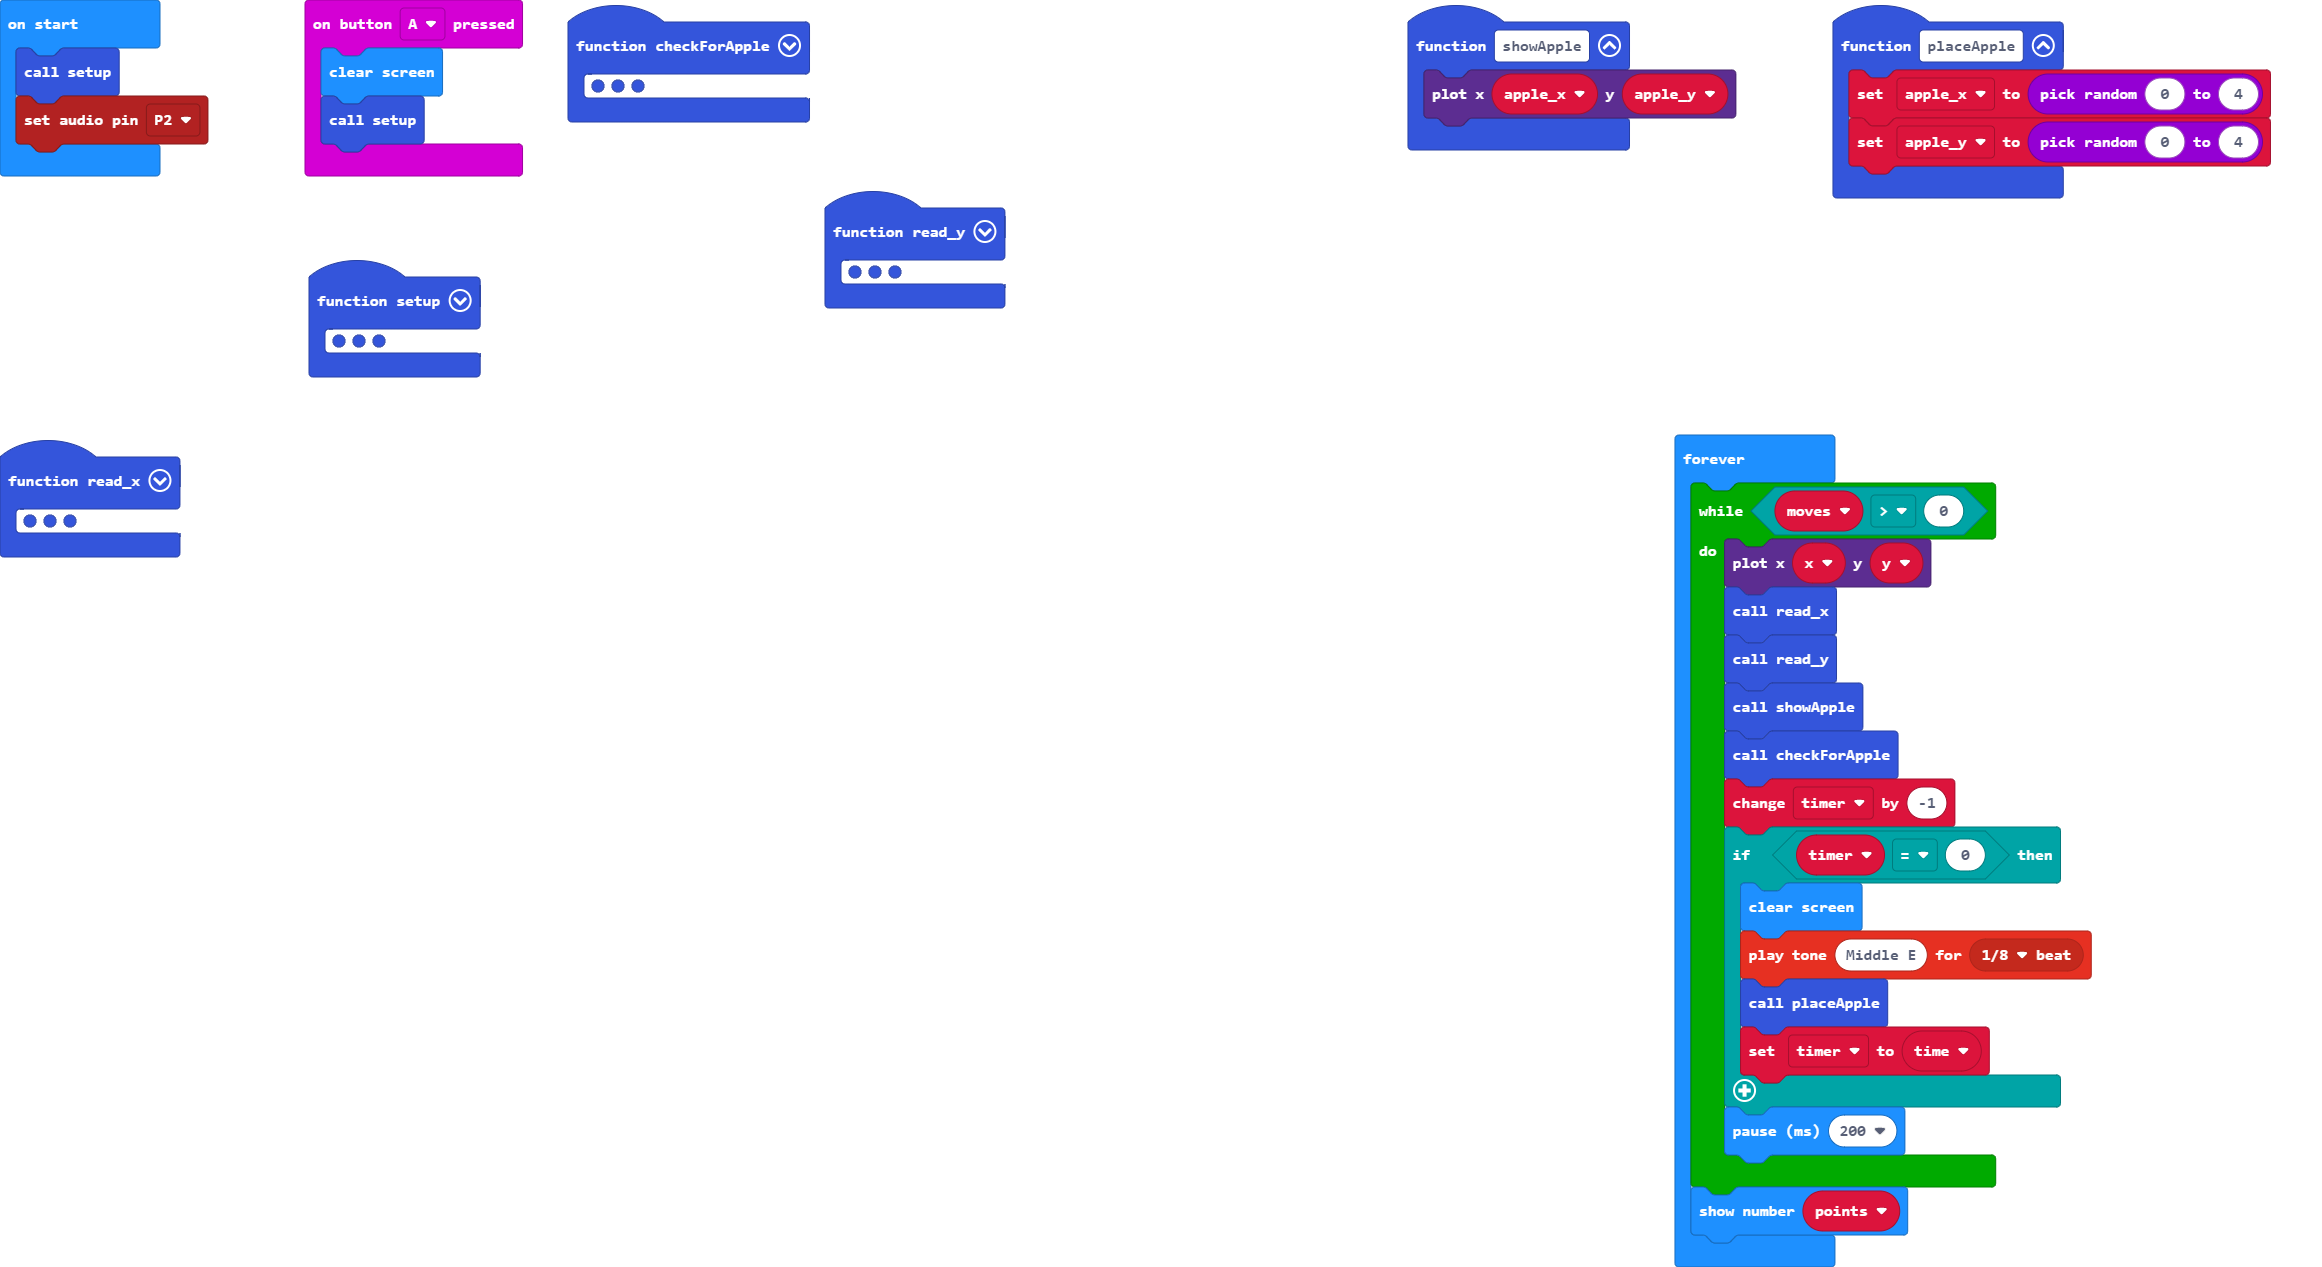
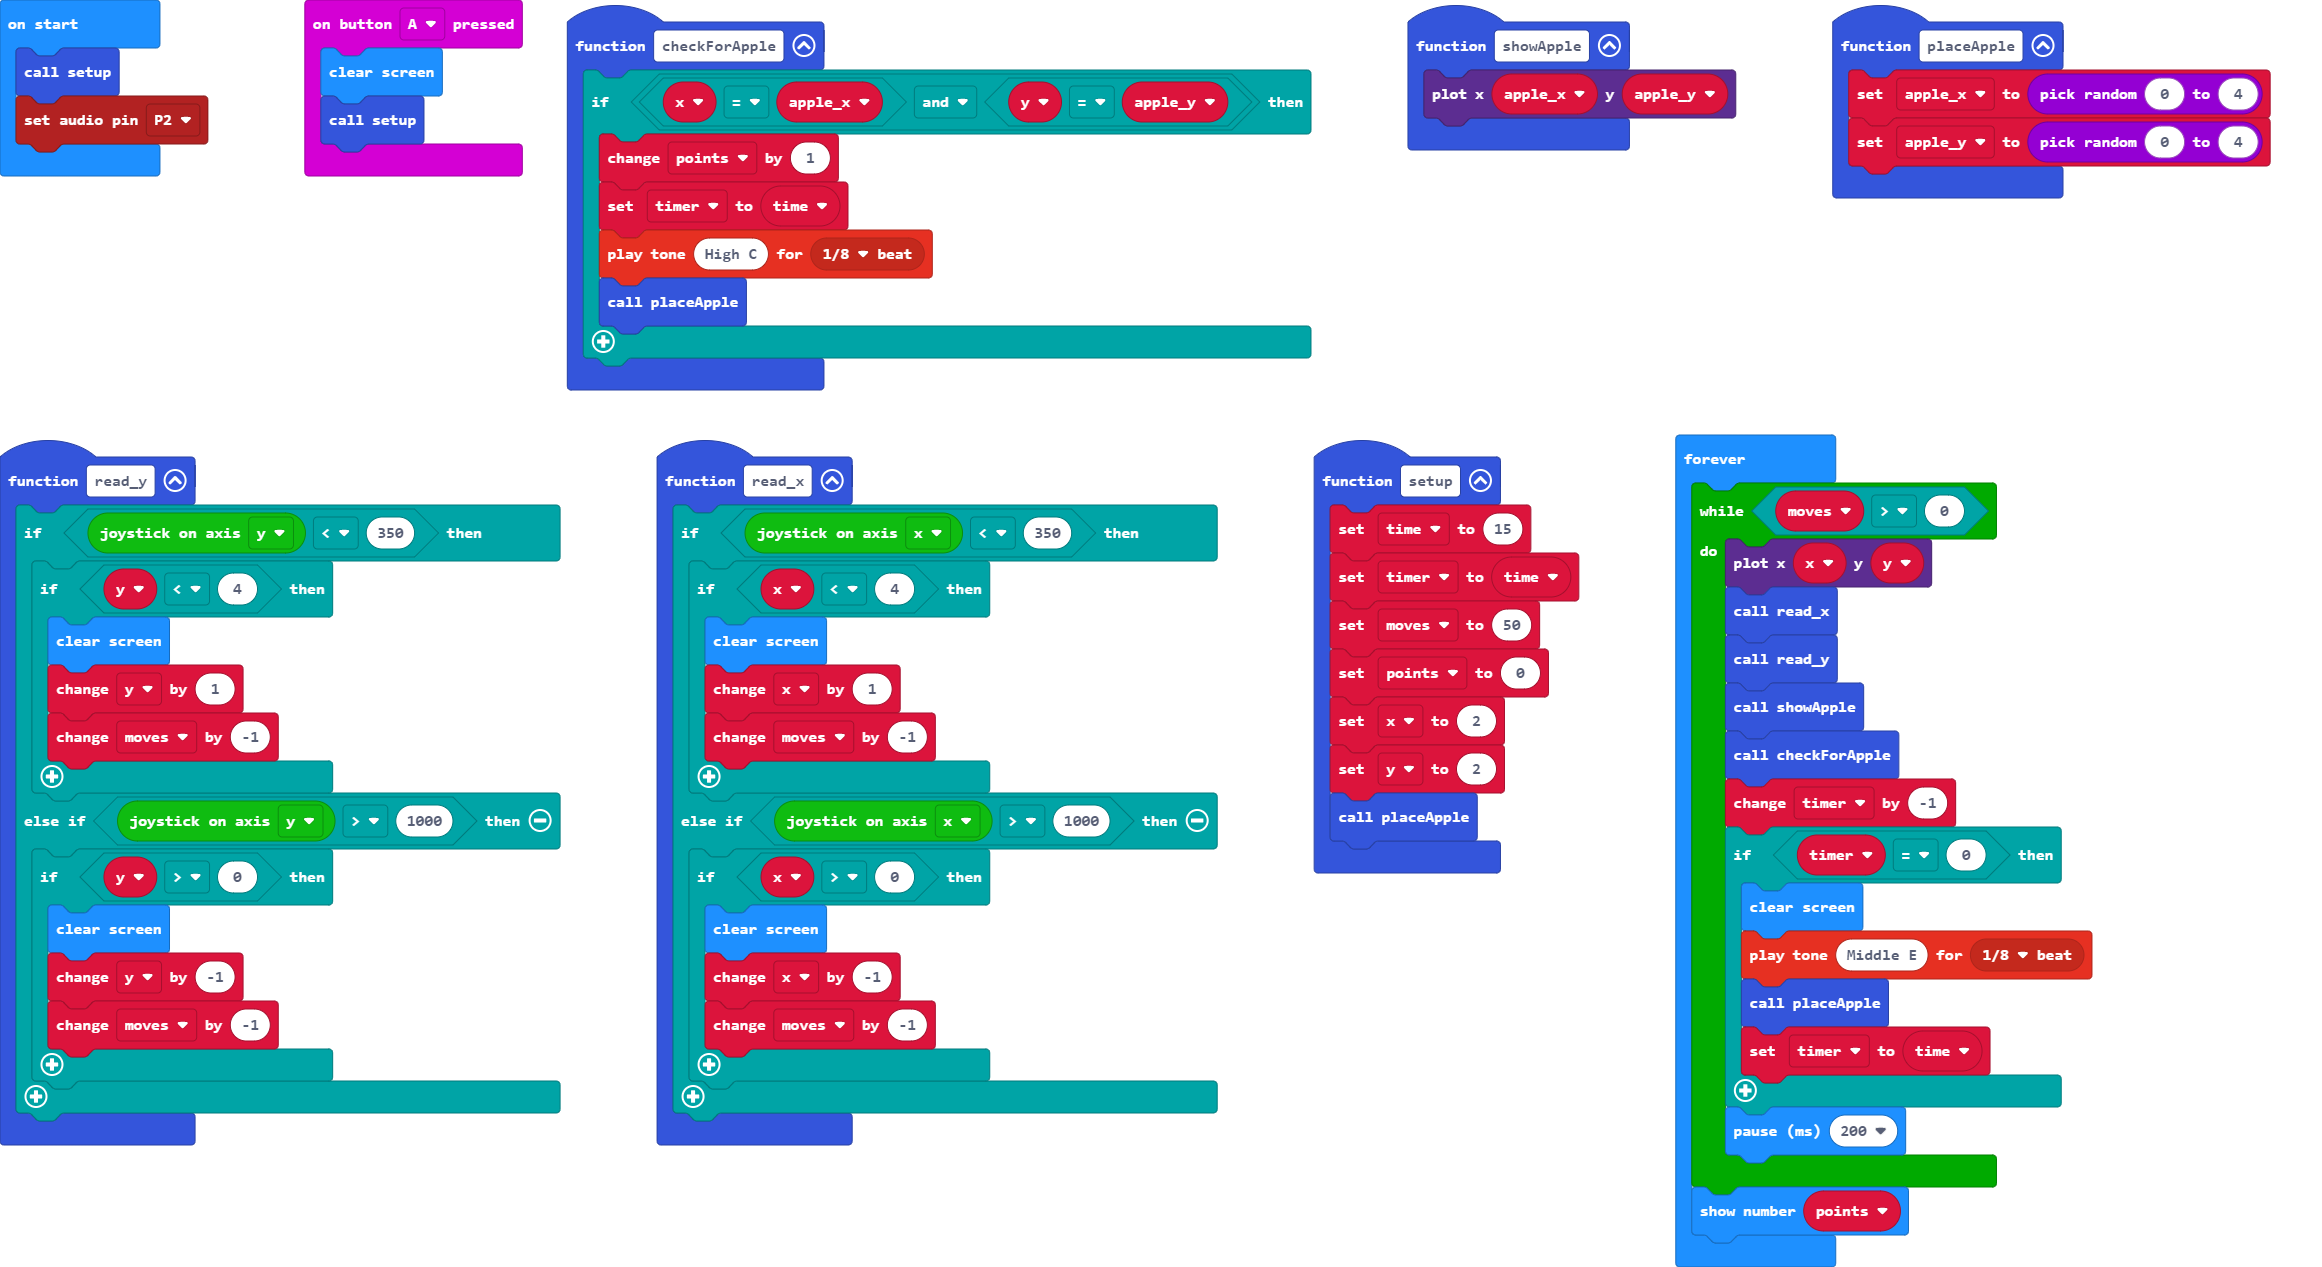
sprites

diff --git a/main.ts b/main.ts
@@ -3,31 +3,26 @@ input.onButtonPressed(Button.A, function () {
     setup()
 })
 function checkForApple () {
-    if (x == apple_x && y == apple_y) {
+    if (player.isTouching(apple)) {
         points += 1
         timer = time
         music.playTone(523, music.beat(BeatFraction.Eighth))
         placeApple()
     }
 }
-function showApple () {
-    led.plot(apple_x, apple_y)
-}
 function placeApple () {
-    apple_x = randint(0, 4)
-    apple_y = randint(0, 4)
+    apple.setX(randint(0, 4))
+    apple.setY(randint(0, 4))
 }
 function read_x () {
-    if (pins.analogReadPin(AnalogPin.P0) < 350) {
-        if (x < 4) {
-            basic.clearScreen()
-            x += 1
+    if (microboy.readJoystick(Axis.X) < 350) {
+        if (player.get(LedSpriteProperty.X) < 4) {
+            player.changeXBy(1)
             moves += -1
         }
-    } else if (pins.analogReadPin(AnalogPin.P0) > 1000) {
-        if (x > 0) {
-            basic.clearScreen()
-            x += -1
+    } else if (microboy.readJoystick(Axis.X) > 1000) {
+        if (player.get(LedSpriteProperty.X) > 0) {
+            player.changeXBy(-1)
             moves += -1
         }
     }
@@ -37,21 +32,17 @@ function setup () {
     timer = time
     moves = 50
     points = 0
-    x = 2
-    y = 2
     placeApple()
 }
 function read_y () {
-    if (pins.analogReadPin(AnalogPin.P1) < 350) {
-        if (y < 4) {
-            basic.clearScreen()
-            y += 1
+    if (microboy.readJoystick(Axis.Y) < 350) {
+        if (player.get(LedSpriteProperty.Y) < 4) {
+            player.changeYBy(1)
             moves += -1
         }
-    } else if (pins.analogReadPin(AnalogPin.P1) > 1000) {
-        if (y > 0) {
-            basic.clearScreen()
-            y += -1
+    } else if (microboy.readJoystick(Axis.Y) > 1000) {
+        if (player.get(LedSpriteProperty.Y) > 0) {
+            player.changeYBy(-1)
             moves += -1
         }
     }
@@ -60,18 +51,14 @@ let moves = 0
 let time = 0
 let timer = 0
 let points = 0
-let apple_y = 0
-let y = 0
-let apple_x = 0
-let x = 0
+let player = game.createSprite(2, 2)
+let apple = game.createSprite(randint(0, 4), randint(0, 4))
 setup()
 pins.setAudioPin(AnalogPin.P2)
 basic.forever(function () {
     while (moves > 0) {
-        led.plot(x, y)
         read_x()
         read_y()
-        showApple()
         checkForApple()
         timer += -1
         if (timer == 0) {
